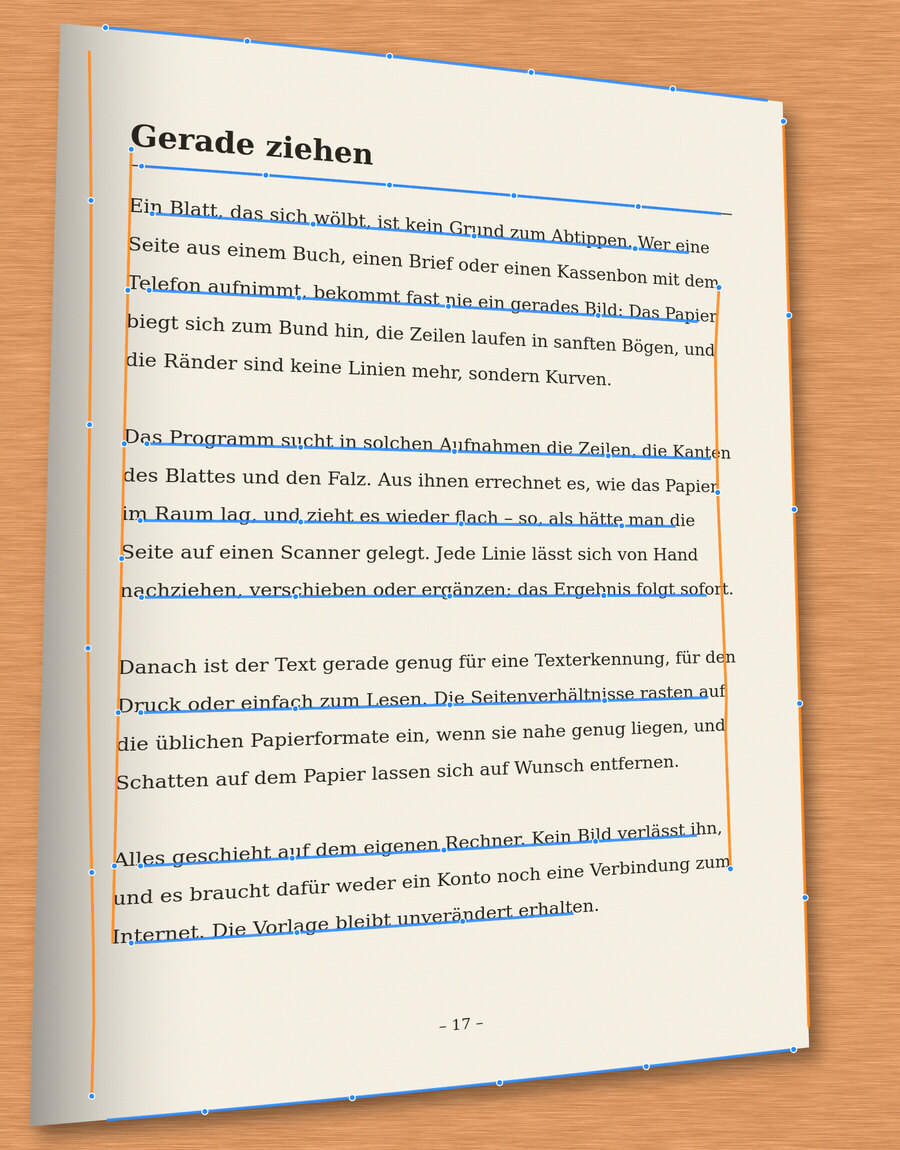
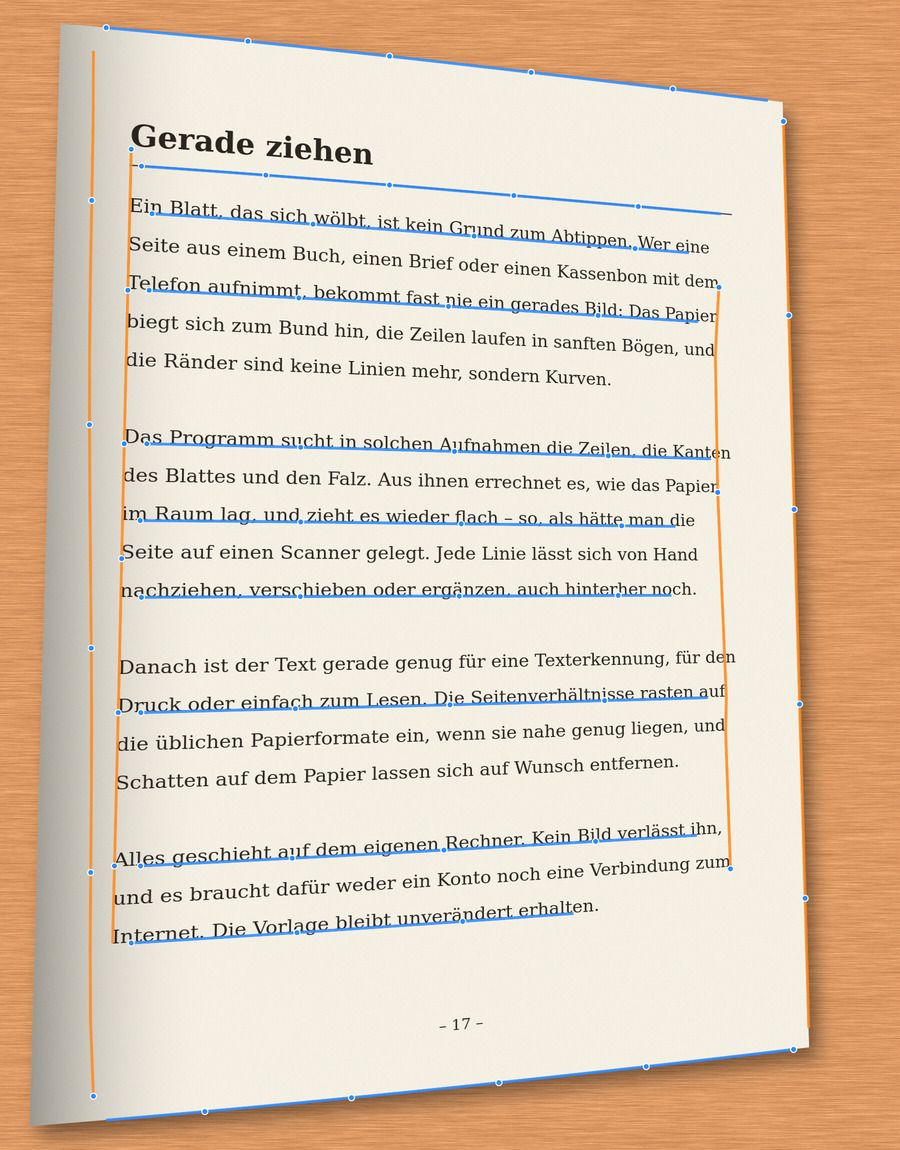
Startseite: Texte lebendiger, ohne „Was Sie sehen“; Geradeziehen-Ergebnis auf die Seite zugeschnitten, Beispielseite ohne falsche Aussage zum sofortigen Ergebnis

diff --git a/README.md b/README.md
@@ -23,9 +23,9 @@
 
 ## Für den Alltag gebaut
 
-Das Foto vom Handy ist zu groß für die Mail. Die Buchseite ist gewölbt fotografiert, der Kassenbon zerknittert, der Scan schief.
-Auf dem Urlaubsbild steht ein Wasserzeichen, über dem Tal liegt Dunst, und das alte Familienfoto ist winzig. Für jedes davon gibt es
-irgendwo ein Werkzeug – ImageConverter macht all das in einem Programm, ohne dass ein Bild den Rechner verlässt.
+Das Handyfoto ist zu groß für die Mail. Die Buchseite ist gewölbt, der Kassenbon zerknittert, der Scan schief. Auf dem Urlaubsbild
+prangt ein Wasserzeichen, über dem Tal hängt Dunst, und das alte Familienfoto ist kaum größer als eine Briefmarke. Für all das gibt
+es irgendwo ein Werkzeug – ImageConverter hat sie in einem Fenster versammelt. Und kein Bild verlässt dabei Ihren Rechner.
 
 - **Öffnen, was kommt:** 35 Dateiendungen – JPEG, PNG, HEIC vom iPhone, WebP, AVIF, JPEG XL, PSD, SVG und RAW-Dateien der gängigen
   Kameras. Entscheidend ist der Inhalt, nicht die Endung: Auch ein falsch benanntes Bild öffnet.
@@ -47,24 +47,23 @@ irgendwo ein Werkzeug – ImageConverter macht all das in einem Programm, ohne d
   <img src="docs/bilder/readme/dunst-vergleich.jpg" width="100%" alt="Panorama eines Tals bei tief stehender Sonne, links das Original mit Dunst, rechts nach dem Dunstfilter">
 </p>
 
-**Was Sie sehen:** ein Panorama mit fast 8 000 Pixeln Breite, aufgenommen gegen die tief stehende Sonne. Links das Original, rechts
-dasselbe Bild nach dem Dunstfilter – im Programm schieben Sie die Trennlinie mit der Maus hin und her. Das Tal bekommt seine Farben und
-seine Staffelung zurück, die Wiesen werden wieder grün, und trotzdem bleiben Himmel und Sonne ruhig: Der Filter erkennt sie und lässt
-sie in Frieden – ohne Streifen im Himmel und ohne helle Säume um die Bäume.
+Gegen die tief stehende Sonne fotografiert, fast 8 000 Pixel breit – und über dem ganzen Tal ein grauer Schleier. Nach dem
+Dunstfilter ist die Landschaft wieder da: grüne Wiesen, Hügelketten, die sich hintereinander staffeln, Farben, wie man sie vor Ort
+gesehen hat. Himmel und Sonne bleiben dabei ruhig, denn der Filter erkennt sie und lässt sie in Frieden – keine Streifen im Himmel,
+keine hellen Säume um die Bäume. Im Programm schieben Sie die Trennlinie einfach mit der Maus hin und her.
 
-**Vorher und nachher nebeneinander** – zum Vergrößern anklicken. Achten Sie auf das Tal links: Wo vorher ein grauer Schleier über
-allem lag, sind die Wiesen wieder grün, der Acker braun und die Dächer rot, und die Hügelketten lösen sich voneinander. Das ganze
-Panorama ist in rund zehn Sekunden gerechnet.
+Am schönsten in groß – ein Klick auf die Bilder öffnet sie. Schauen Sie ins Tal links: Wo eben noch alles grau verschleiert war,
+sind die Wiesen wieder grün, der Acker braun und die Dächer rot. Das ganze Panorama ist in rund zehn Sekunden gerechnet.
 
 <p align="center">
   <a href="docs/bilder/readme/dunst-vorher.jpg"><img src="docs/bilder/readme/dunst-vorher.jpg" width="49%" alt="Das ganze Panorama vor dem Dunstfilter: Tal, Hügel und Felder unter einem grauen Schleier"></a>
   <a href="docs/bilder/readme/dunst-nachher.jpg"><img src="docs/bilder/readme/dunst-nachher.jpg" width="49%" alt="Das ganze Panorama nach dem Dunstfilter: grüne Wiesen, klare Hügelketten, ruhiger Himmel mit Sonne"></a>
 </p>
 
-- **Wie das Auge:** Der Dunst wird in mehreren sachten Durchläufen entfernt – ansehen, neu schätzen, weiter. Mehr Durchläufe wirken
-  kräftiger, jeder bleibt natürlich.
-- **Feinregler** für Klarheit, Kontrast, Dynamik, Schärfe, Kanten, Helligkeit, Entstufen und Dunstfarbe.
-- **Himmel und Sonne geschützt,** auch bei Gegenlicht und Verläufen.
+- **Behutsam statt brachial:** Der Dunst verschwindet in mehreren sachten Durchläufen – ansehen, neu schätzen, weiter. Mehr
+  Durchläufe wirken kräftiger und bleiben trotzdem natürlich.
+- **Fein abstimmbar:** acht Regler von Klarheit über Schärfe bis Dunstfarbe – für genau die Stimmung, die Sie im Kopf haben.
+- **Gegenlicht ohne Sorge:** Himmel, Sonne und weiche Verläufe bleiben geschützt.
 
 <details>
 <summary><b>Die Einstellungen dieses Beispiels</b></summary>
@@ -86,13 +85,13 @@ Panorama ist in rund zehn Sekunden gerechnet.
 <p align="center">
   <img src="docs/bilder/readme/seite-vorher.jpg" width="32%" alt="Eine fotografierte Buchseite auf einem Holztisch, schräg aufgenommen und zum Bund hin gewölbt; die Zeilen laufen in Bögen">
   <img src="docs/bilder/readme/seite-linien.jpg" width="32%" alt="Dieselbe Seite mit den vorgeschlagenen Linien: blau entlang der Textzeilen und der oberen und unteren Kante, orange entlang der senkrechten Ränder">
-  <img src="docs/bilder/readme/seite-nachher.jpg" width="32%" alt="Die Seite nach dem Begradigen: gerade Zeilen, rechte Winkel, flach wie gescannt">
+  <img src="docs/bilder/readme/seite-nachher.jpg" width="32%" alt="Die Seite nach dem Geradeziehen, auf die Seite zugeschnitten: gerade Zeilen, rechte Winkel, flach wie gescannt">
 </p>
 
-**Was Sie sehen:** links eine Buchseite, schräg fotografiert und zum Bund hin gewölbt. In der Mitte die Linien, die das Programm von
-selbst vorschlägt – blau an Textzeilen und Kanten, orange an den Rändern. Rechts das Ergebnis: Die Zeilen liegen gerade, die Ecken
-sind rechtwinklig, die Seite liegt flach wie auf dem Scanner. Passt eine Linie nicht, ziehen Sie sie mit der Maus zurecht, und das
-Ergebnis folgt sofort.
+Schnell mit dem Handy fotografiert, schräg von oben, und die Seite wölbt sich zum Bund – die Zeilen laufen in Bögen. ImageConverter
+findet Textzeilen, Kanten und Ränder von selbst (Mitte) und zieht die Seite daraus glatt. Rechts das Ergebnis, auf die Seite
+zugeschnitten: gerade Zeilen, rechte Winkel, flach wie vom Scanner. Sitzt eine Linie nicht ganz, ziehen Sie sie mit der Maus
+zurecht – auch hinterher noch.
 
 - **Gewölbtes Blatt:** Linien an Textzeilen und Rändern setzen oder vorschlagen lassen – ein Blattmodell zieht die Seite glatt und rastet
   auf DIN-Formate ein. Auch Doppelseiten mit Falz.
@@ -110,9 +109,9 @@ Ergebnis folgt sofort.
   <img src="docs/bilder/readme/entfernen-nachher.jpg" width="49%" alt="Dieselbe Landschaft ohne Strommast und ohne Leitungen; Wolken, Nebel und Wald laufen ungestört durch">
 </p>
 
-**Strommast weg, Leitungen weg:** Mast und Leitungen markieren, „Entfernen“ – die KI füllt die Stellen mit dem, was dahinter sein
-müsste: Wolken, Nebelschwaden, Baumkronen. Ein zweiter, kurzer Durchgang nimmt die letzten feinen Reste. Alles außerhalb der
-Markierung bleibt Pixel für Pixel, wie es war.
+**Strommast weg, Leitungen weg.** Einmal drübermalen, „Entfernen“ – und die KI setzt ein, was dahinter sein müsste: Wolken,
+Nebelschwaden, Baumkronen. Ein zweiter kurzer Durchgang nimmt die letzten feinen Reste mit. Alles außerhalb der Markierung bleibt
+Pixel für Pixel unangetastet.
 
 <p align="center">
   <img src="docs/bilder/readme/hintergrund-vorher.jpg" width="32%" alt="Eine Person mit Kapuze und Rucksack an einer Waldstraße, von schräg hinten, mit ausgestrecktem Daumen">
@@ -120,9 +119,9 @@ Markierung bleibt Pixel für Pixel, wie es war.
   <img src="docs/bilder/readme/hintergrund-frei.jpg" width="32%" alt="Die freigestellte Person vor einem Schachbrettmuster, das den durchsichtigen Hintergrund zeigt">
 </p>
 
-**Freistellen mit einem Klick:** Das Programm erkennt die Person samt Kapuze, Rucksack und ausgestrecktem Daumen. Danach wahlweise
-den Wald weichzeichnen wie bei einer offenen Blende (Mitte) oder ganz entfernen und als PNG mit durchsichtigem Hintergrund speichern
-(rechts, hier auf Schachbrett).
+**Freistellen mit einem Klick.** ImageConverter findet die Person samt Kapuze, Rucksack und ausgestrecktem Daumen. Dann haben Sie
+die Wahl: den Wald weich verschwimmen lassen wie bei offener Blende (Mitte) oder ganz entfernen und als PNG mit durchsichtigem
+Hintergrund speichern (rechts, hier auf Schachbrett).
 
 <sub>Fotos: Altas Green und Charles Devaux über Unsplash, gemeinfrei (CC0).</sub>
 
@@ -177,9 +176,10 @@ Rückgängig und Wiederholen gibt es für jeden Handgriff (Strg+Z / Strg+Y).
   <img src="docs/bilder/readme/stl-fenster.jpg" width="100%" alt="Das Fenster im dunklen Design mit einem Gehäuse-Unterteil als STL: links Kennzahlen und Ansicht-Einstellungen, rechts das Modell mit Rippen, Bohrungen und Schienen">
 </p>
 
-**Was Sie sehen:** ein Gehäuse-Unterteil für den 3D-Druck, 6 792 Dreiecke. Links die Kennzahlen – Maße, Oberfläche, Volumen, ob das
-Modell geschlossen ist, 103 erkannte Flächen (72 Ebenen, 23 Zylinder) – und die Ansicht-Einstellungen. Rechts das Modell in der
-Qualitätsstufe „Hoch“: glatte Rundungen, weiche Umgebungsschatten, Kanten als feine Linien, achtfache Kantenglättung.
+Ein Gehäuse-Unterteil für den 3D-Druck, so wie es der Betrachter in der Qualitätsstufe „Hoch“ zeigt: glatte Rundungen, weiche
+Schatten in Ecken und Bohrungen, Kanten als feine Linien. Links stehen die Kennzahlen bereit – Maße, Oberfläche, Volumen, ob das
+Modell geschlossen ist, und 103 erkannte Flächen, darunter 23 Zylinder. Zwei Klicks auf zwei Flächen, und Sie wissen, ob das Bauteil
+hineinpasst.
 
 <p align="center">
   <img src="docs/bilder/readme/stl-messen.jpg" width="49%" alt="Zwei Flächen angeklickt, dazwischen das Maß 10,00 mm mit Winkel 0°">
